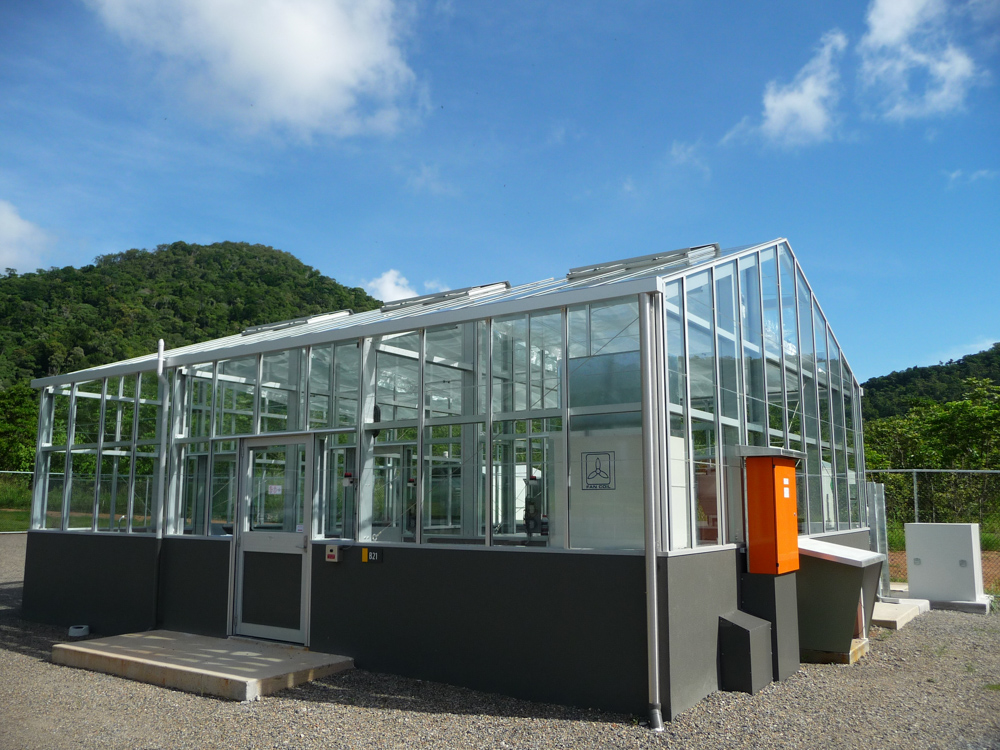
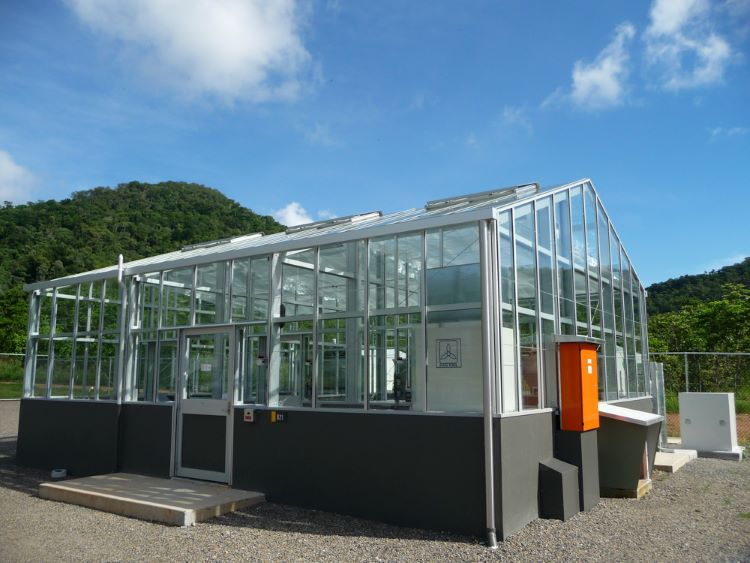
swap photo and resize

Changed region(s): [[0.7667, 0.6341, 0.7973, 0.6643]]

diff --git a/index.md b/index.md
@@ -3,7 +3,7 @@ layout: default
 title: Home
 ---
 
-![ERC Glasshouse]({{ site.url }}{{ site.baseurl }}/assets/images/ERC_Glasshouse_Extra.jpg)
+![ERC Glasshouse]({{ site.url }}{{ site.baseurl }}/assets/images/ERC_Glasshouse.jpg)
 
 The [Environmental Research Complex](https://www.jcu.edu.au/environmental-research-complex) (ERC) is a cutting edge research facility for biological and environmental sciences at James Cook University, Cairns. Facilities include research quality growth facilities for examining the implications of climate change on tropical vegetation as well as the space and resources to conduct a diverse array of experimental projects.
 
